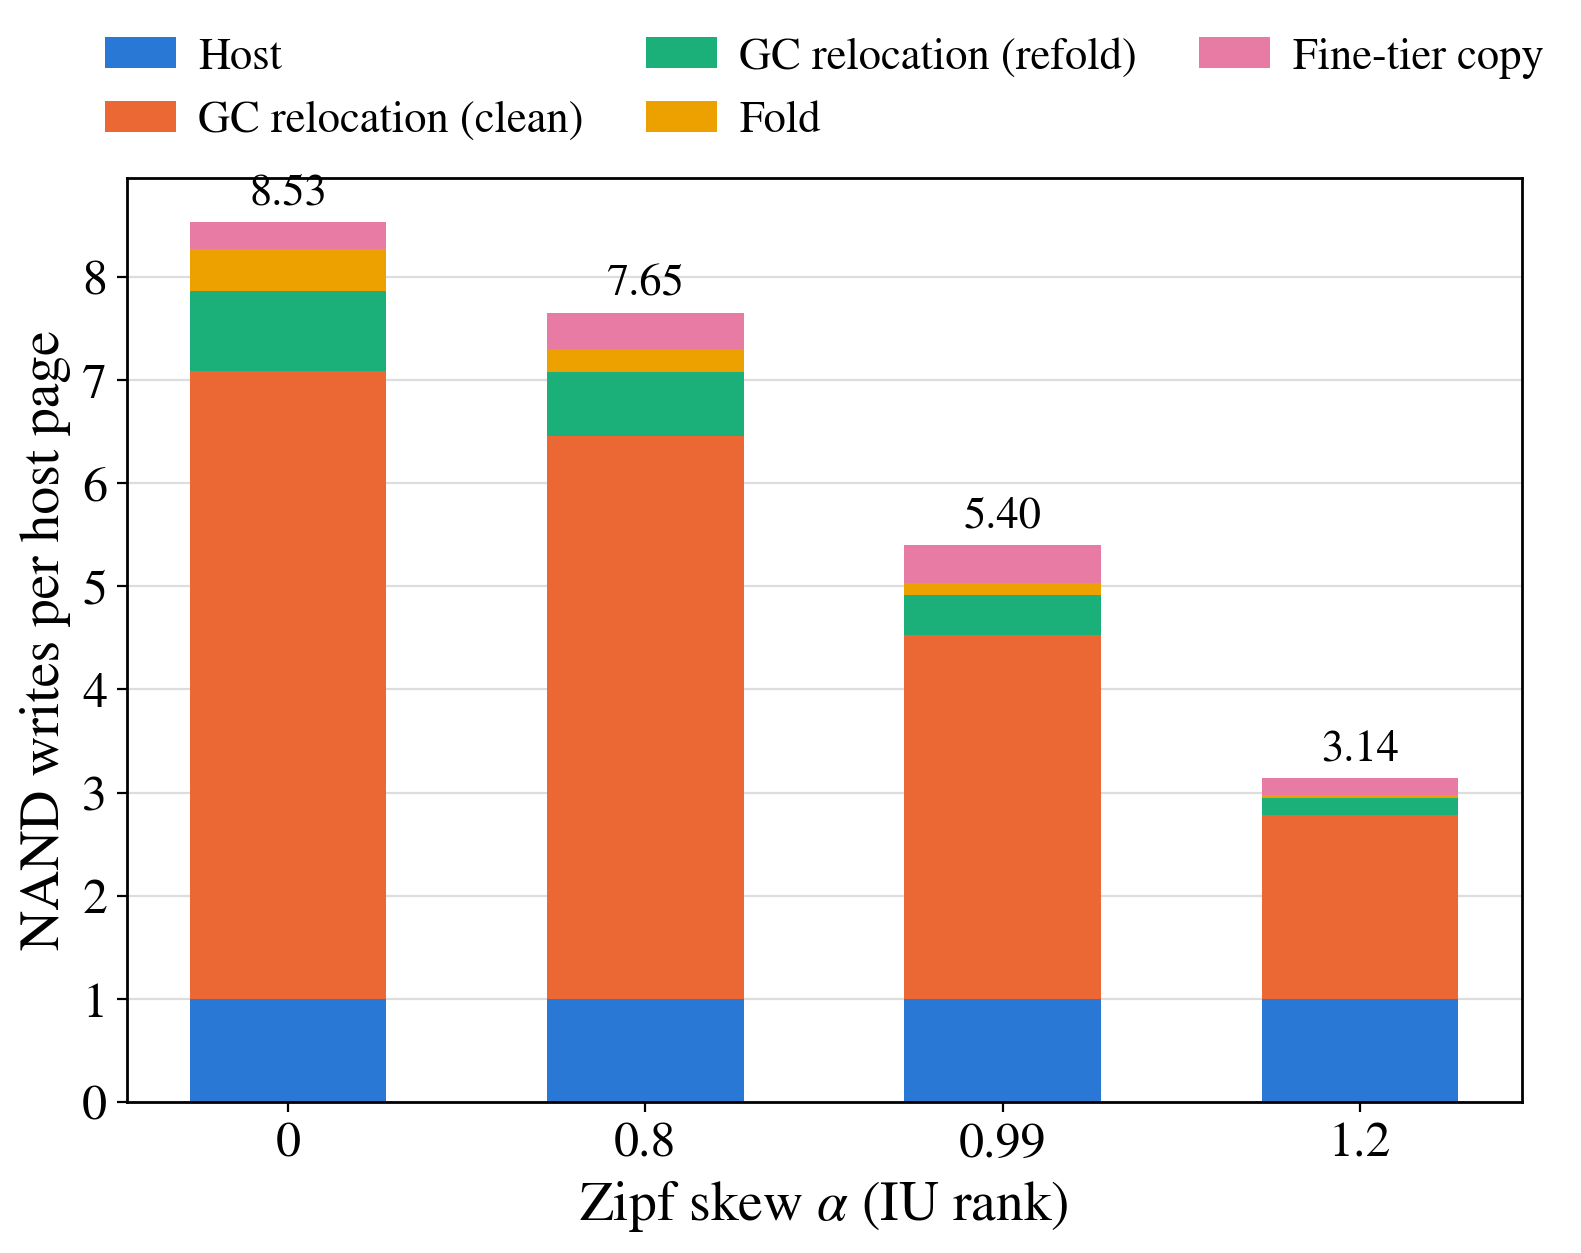
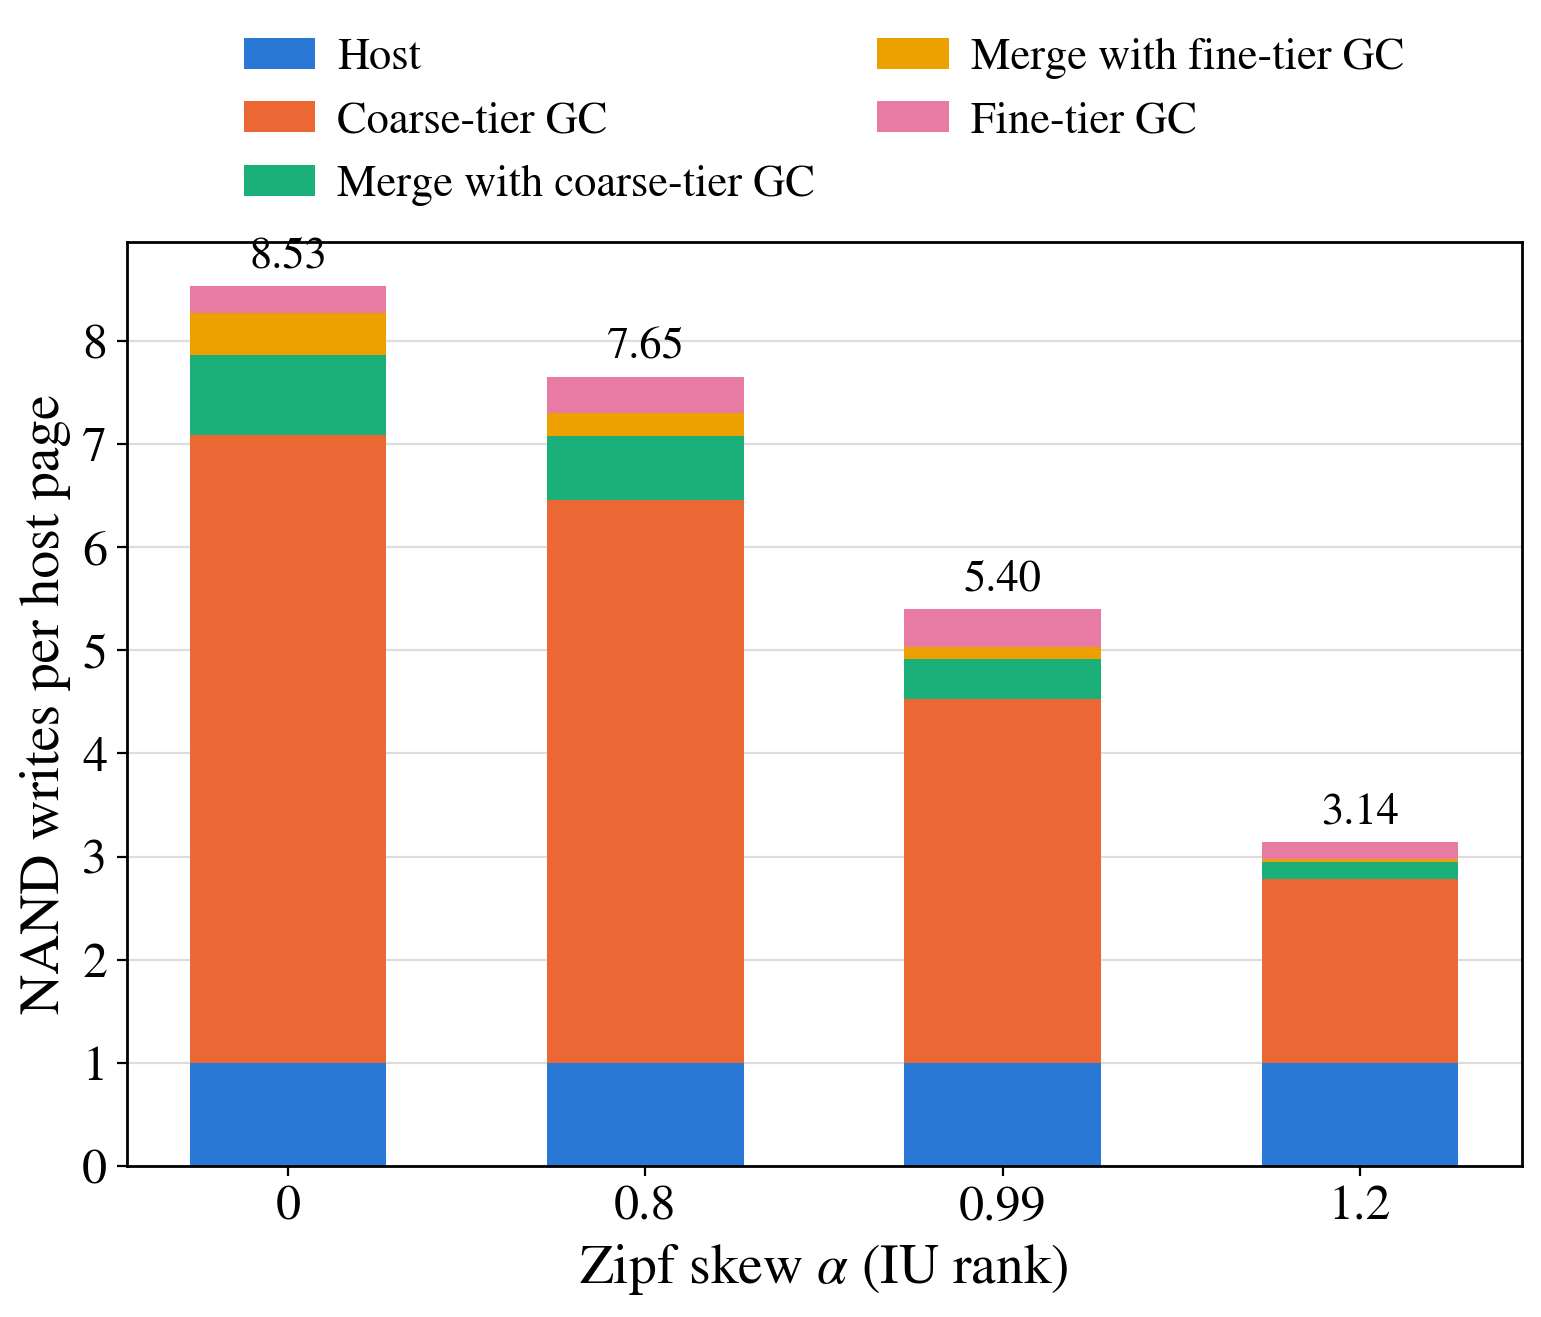
Rename write-breakdown labels to tier-based terms (fine/coarse-tier GC, merge with ...)

diff --git a/tools/plot.py b/tools/plot.py
@@ -187,10 +187,10 @@ def fig_ram():
 
 def fig_breakdown_proposed():
     parts = [("host", "Host", "#2a78d6"),
-             ("cgc_clean", "GC relocation (clean)", "#eb6834"),
-             ("cgc_refold", "GC relocation (refold)", "#1baf7a"),
-             ("fold", "Fold", "#eda100"),
-             ("finegc", "Fine-tier copy", "#e87ba4")]
+             ("cgc_clean", "Coarse-tier GC", "#eb6834"),
+             ("cgc_refold", "Merge with coarse-tier GC", "#1baf7a"),
+             ("fold", "Merge with fine-tier GC", "#eda100"),
+             ("finegc", "Fine-tier GC", "#e87ba4")]
     fig, ax = plt.subplots(figsize=(9, 6))
     x = np.arange(len(ZS))
     bottom = np.zeros(len(ZS))
@@ -208,7 +208,7 @@ def fig_breakdown_proposed():
     ax.set_xticklabels(ZS)
     ax.set_xlabel(r"Zipf skew $\alpha$ (IU rank)")
     ax.set_ylabel("NAND writes per host page")
-    outside_legend(ax, 3)
+    outside_legend(ax, 2)
     ax.grid(axis="y", color="#dddddd", linewidth=0.8)
     ax.set_axisbelow(True)
     save(fig, "fig4_breakdown_proposed")

diff --git a/SPEC.md b/SPEC.md
@@ -205,6 +205,7 @@ DFTL의 숨은 비용 — 매핑 miss read (host 페이지당): zipf 0: **0.94 r
   **refold** = coarse GC가 chunk를 옮기면서 수행하는 fold(추가 쓰기 0). **unfold** = chunk의 남은 (16−d)페이지를 fragment로 옮기고 chunk를 dead 처리 → IU가 fine에 상주(`unfold=hot`, `unfold_tau`).
   **clean copy** = fragment 없는 chunk의 GC 이동. **dead chunk** = 이미 교체된 chunk, GC에서 skip.
 - 정책 설명 시 캐시 관점 용어 병기: fine 티어 = hot IU 캐시, unfold = promote(admission), fold = demote(eviction).
+- 논문/그림 표기 ↔ JSON 키: **Fine-tier GC** = `finegc`(fine 블록 회수 시 조각 복사), **Merge with fine-tier GC** = `fold`(fine 회수 중 자발적 merge), **Merge with coarse-tier GC** = `cgc_refold`(coarse GC가 chunk를 옮기며 조각 흡수, 추가 쓰기 0), **Coarse-tier GC** = `cgc_clean`(조각 없는 chunk 이동).
 - JSON 키: prog.{fold, cgc_refold, unfold, cgc_clean, finegc}, events.{fold, refold, unfold, blockfold, forced_fold}, d_hist_{fold, refold, unfold}.
 - merge/split은 쓰지 않음(log-block merge, μ-FTL extent split과 충돌). fold는 SLC folding과 같은 계보임을 related work에서 인정.
 
